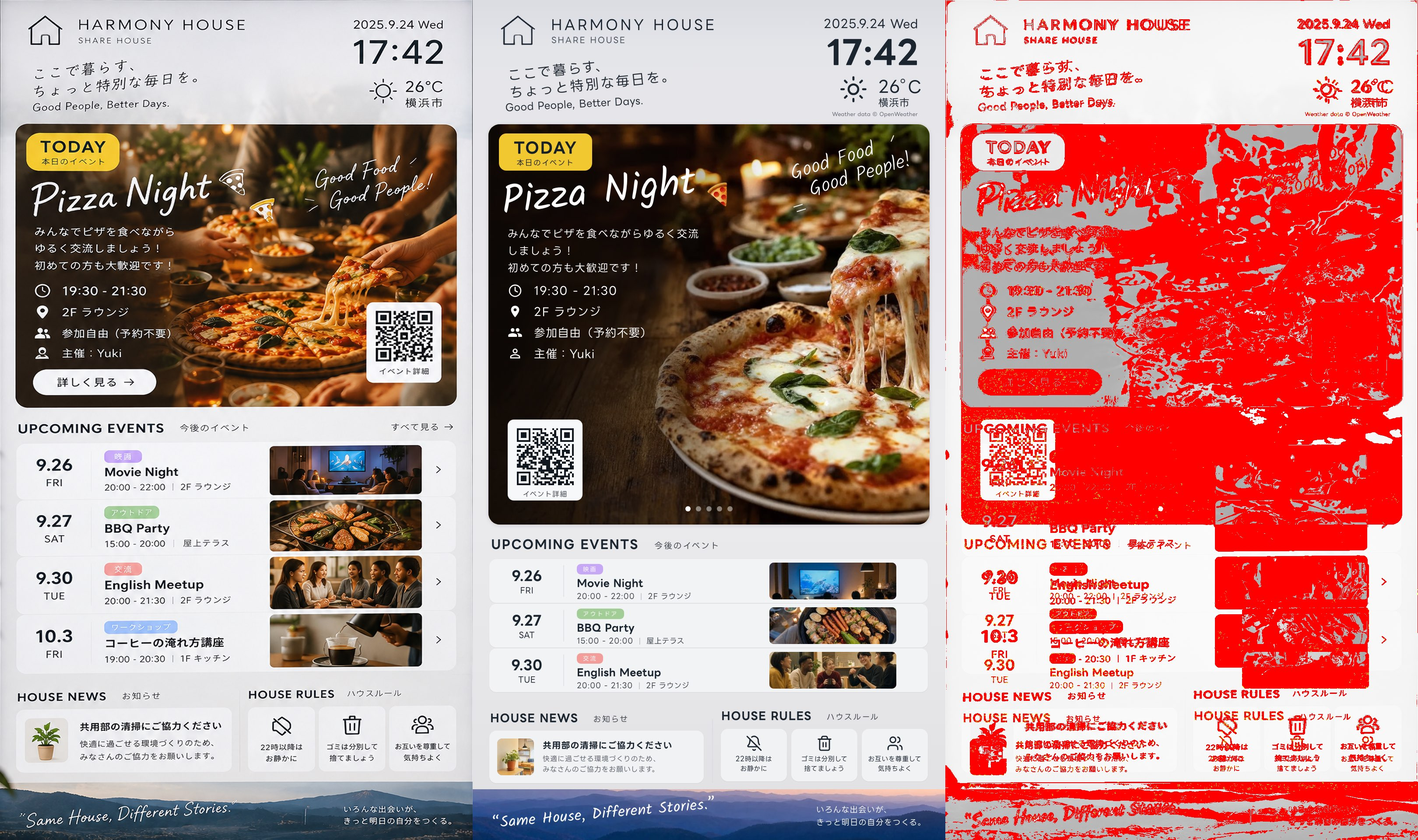
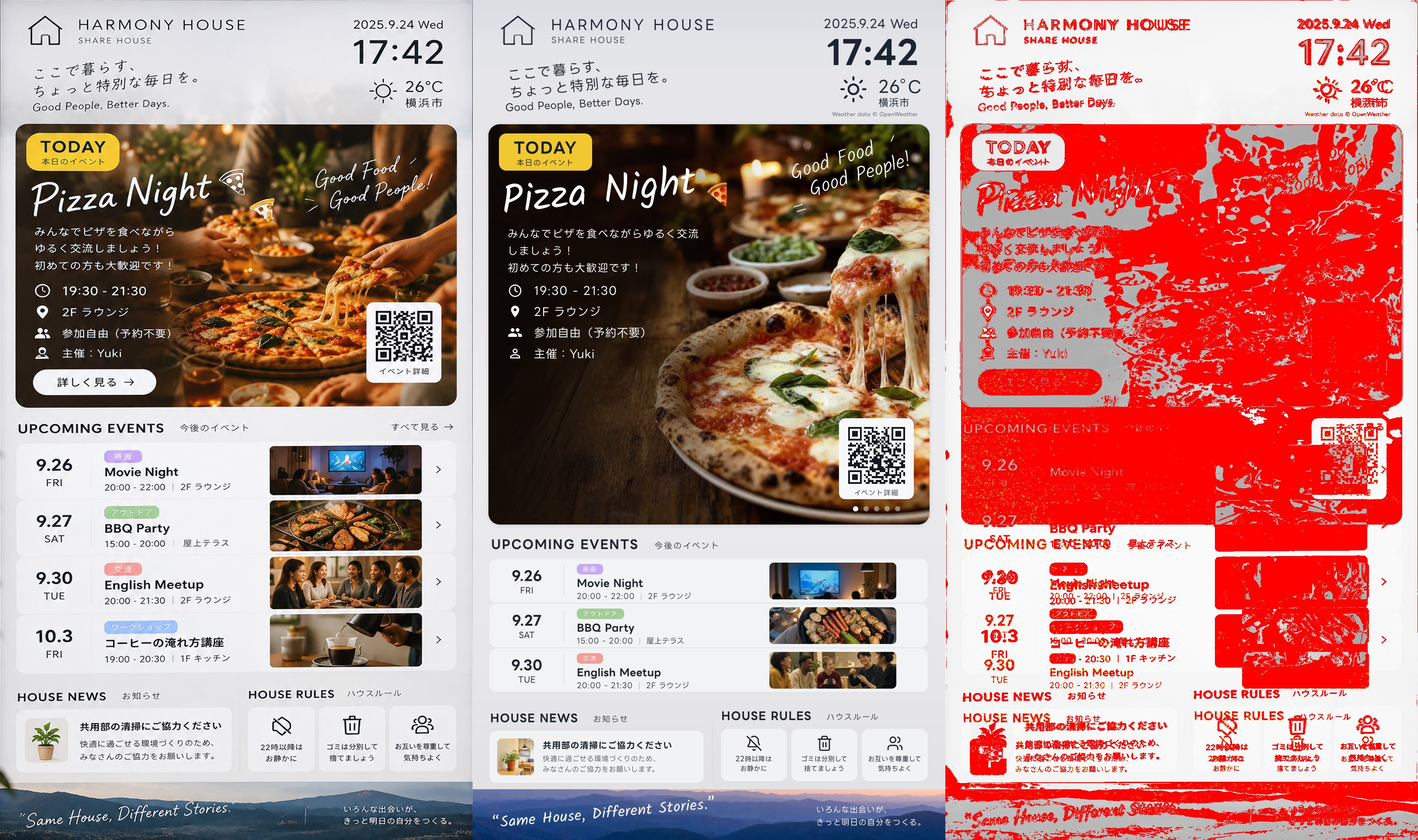
fix(signage): QR を大きな枠の右下、スライドの点の並びの真上に（ユーザー指示）
- QR と点の並び（何枚目か）を 1 つの箱にまとめて右下に置き、中央をそろえる。
  イベントの数で点の並びの幅が変わっても、QR は点の並びの真上のまま
- 縦型: QR は枠の右から 36px（モックと同じ位置）、点の並びは中央から右下へ
- 横型: QR を写真の枠の中に移し、右から 44px
- モック比較（docs/design-diff）を更新: 縦 45.61%、横 45.74%、管理画面 22.25%

diff --git a/components/signage/LandscapeLayout.tsx b/components/signage/LandscapeLayout.tsx
@@ -196,7 +196,7 @@ function Hero({
   const label = stateLabel(state);
   const catchLines = splitCatchCopy(event.catchCopy);
   const longTitle = [...event.title].length > 12;
-  // 写真・丸い目印・本文・QR は別々の要素なので、同じ key でまとめて入れ替え、それぞれフェードで出す
+  // 写真（QR と点の並びを含む）・丸い目印・本文は別々の要素なので、同じ key でまとめて入れ替え、それぞれフェードで出す
   const fade = count > 1 ? styles.heroFade : "";
   return (
     <Fragment key={event.id}>
@@ -218,7 +218,15 @@ function Hero({
             <span className={styles.pCatchTick2} />
           </div>
         ) : null}
-        {count > 1 ? <HeroDots index={index} count={count} className={styles.lDots} /> : null}
+        <div className={`${styles.heroCorner} ${styles.lCorner}`}>
+          {isQrUrl(event.qrUrl) ? (
+            <div className={styles.lQr}>
+              <QrCode url={event.qrUrl} size={106} />
+              <span className={styles.lQrLabel}>{COPY.qrLabel}</span>
+            </div>
+          ) : null}
+          {count > 1 ? <HeroDots index={index} count={count} /> : null}
+        </div>
       </MediaImage>
       <div className={`${styles.lCircle} ${fade}`} data-state={state} data-testid="state-badge">
         <span className={styles.lCircleEn} data-long={label.en.length > 5 ? "true" : "false"}>
@@ -236,12 +244,6 @@ function Hero({
         {event.description ? <p className={styles.lDesc}>{event.description}</p> : null}
         <EventInfo event={event} withDate={state === "upcoming"} />
       </div>
-      {isQrUrl(event.qrUrl) ? (
-        <div className={`${styles.lQr} ${fade}`}>
-          <QrCode url={event.qrUrl} size={106} />
-          <span className={styles.lQrLabel}>{COPY.qrLabel}</span>
-        </div>
-      ) : null}
     </Fragment>
   );
 }

diff --git a/components/signage/signage.module.css b/components/signage/signage.module.css
@@ -522,11 +522,8 @@
   box-shadow: 4px 12px 0 #fff;
 }
 
-/* QR は大きな枠の左端（左下）に置く（2026-09-25 ユーザー指示） */
+/* QR の置き場所は .heroCorner（点の並びの真上） */
 .pQr {
-  position: absolute;
-  left: 44px;
-  top: 675px;
   width: 171px;
   height: 185px;
   border-radius: 14px;
@@ -1140,11 +1137,8 @@
 }
 
 
-/* QR は大きな枠の左端（日付の丸い目印の下）に置く（2026-09-25 ユーザー指示） */
+/* QR の置き場所は .heroCorner（点の並びの真上） */
 .lQr {
-  position: absolute;
-  left: 60px;
-  top: 642px;
   width: 135px;
   height: 142px;
   border-radius: 10px;
@@ -1619,10 +1613,31 @@
   }
 }
 
-/* 何枚目か（点の並び）。今の 1 枚だけ白く、ほかは半透明 */
-.heroDots {
+/*
+ * 大きな枠の右下。QR を点の並び（何枚目か）の真上に置く（2026-09-25 ユーザー指示）。
+ * 縦に並べて中央をそろえるので、イベントの数で点の並びの幅が変わっても QR は真上のまま
+ */
+.heroCorner {
   position: absolute;
   z-index: 2;
+  display: flex;
+  flex-direction: column;
+  align-items: center;
+  gap: 16px;
+}
+
+.pCorner {
+  right: 36px;
+  bottom: 30px;
+}
+
+.lCorner {
+  right: 44px;
+  bottom: 30px;
+}
+
+/* 何枚目か（点の並び）。今の 1 枚だけ白く、ほかは半透明 */
+.heroDots {
   display: flex;
   gap: 12px;
 }
@@ -1636,15 +1651,4 @@
 
 .heroDots span[data-active="true"] {
   background: #fff;
-}
-
-.pDots {
-  left: 50%;
-  bottom: 30px;
-  transform: translateX(-50%);
-}
-
-.lDots {
-  right: 44px;
-  bottom: 30px;
 }

diff --git a/components/signage/PortraitLayout.tsx b/components/signage/PortraitLayout.tsx
@@ -192,13 +192,15 @@ function Hero({
         {event.description ? <p className={styles.pDesc}>{event.description}</p> : null}
         <EventInfo event={event} withDate={state === "upcoming"} />
       </div>
-      {isQrUrl(event.qrUrl) ? (
-        <div className={styles.pQr}>
-          <QrCode url={event.qrUrl} size={130} />
-          <span className={styles.pQrLabel}>{COPY.qrLabel}</span>
-        </div>
-      ) : null}
-      {count > 1 ? <HeroDots index={index} count={count} className={styles.pDots} /> : null}
+      <div className={`${styles.heroCorner} ${styles.pCorner}`}>
+        {isQrUrl(event.qrUrl) ? (
+          <div className={styles.pQr}>
+            <QrCode url={event.qrUrl} size={130} />
+            <span className={styles.pQrLabel}>{COPY.qrLabel}</span>
+          </div>
+        ) : null}
+        {count > 1 ? <HeroDots index={index} count={count} /> : null}
+      </div>
     </MediaImage>
   );
 }

diff --git a/components/signage/parts.tsx b/components/signage/parts.tsx
@@ -207,9 +207,9 @@ export function PersonIcon({ size }: SvgIconProps) {
 }
 
 /** 大きな欄のスライドショーの何枚目か（点の並び） */
-export function HeroDots({ index, count, className }: { index: number; count: number; className: string }) {
+export function HeroDots({ index, count }: { index: number; count: number }) {
   return (
-    <div className={`${styles.heroDots} ${className}`} data-testid="hero-dots" aria-hidden>
+    <div className={styles.heroDots} data-testid="hero-dots" aria-hidden>
       {Array.from({ length: count }, (_, i) => (
         <span key={i} data-active={i === index ? "true" : "false"} />
       ))}
